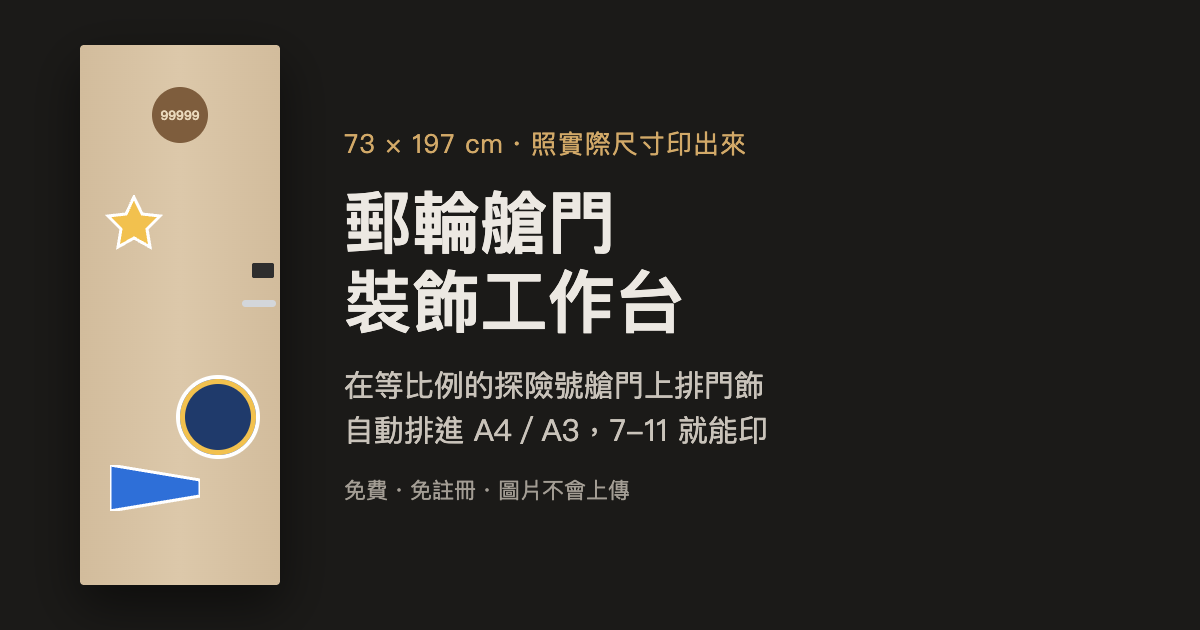
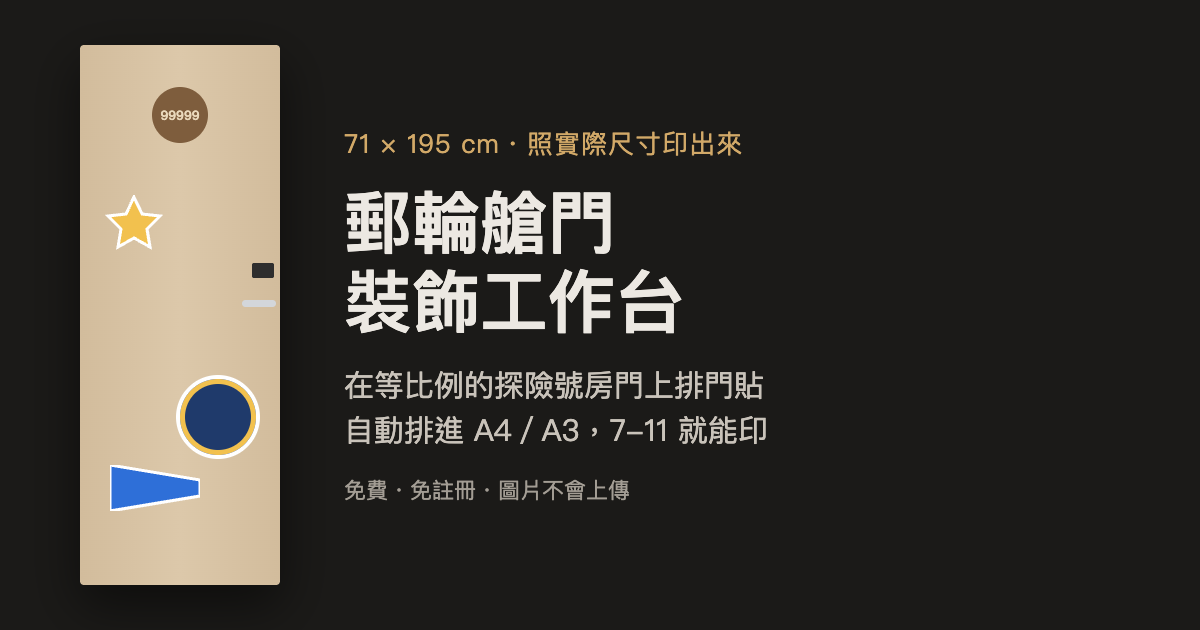
feat(seo): 探險號房門改成官方尺寸 71 × 195 cm，SEO 文案改用大家實際搜尋的詞
- 門：迪士尼在 planDisney 回答的一般艙房房門約 71 × 195 cm、門牌上緣距門頂約 15.5 cm。
  原本的 73 × 197 cm 比較接近禮賓艙房，大多數人住的是一般艙房，所以改用官方數字。
  門牌、貓眼置中跟著移，門鎖區貼齊右緣。說明加上「約略尺寸，出發前建議自己量一次」
- 標題與描述以「房門尺寸」「房門裝飾」開頭：Google 自動完成裡最多的是「門的尺寸」，
  大家說「房門」「門貼」「磁鐵製作」，很少說「艙門」「門飾」
- 指南加上房門裝飾的規定（只能用磁鐵、不能用門上方掛鉤等）、禮賓艙房的尺寸、一句英文
- 拿掉 FAQPage 結構化資料與 meta keywords：Google 已不顯示 FAQ 搜尋結果、也不讀 keywords
- 分享預覽圖的尺寸改成 71 × 195 cm

Changed region(s): [[0.2775, 0.2111, 0.6167, 0.2714], [0.4625, 0.573, 0.5242, 0.6333], [0.6167, 0.573, 0.6475, 0.6333]]

diff --git a/index.html b/index.html
@@ -3,9 +3,8 @@
   <head>
     <meta charset="UTF-8" />
     <meta name="viewport" content="width=device-width, initial-scale=1.0, viewport-fit=cover" />
-    <title>郵輪艙門裝飾工作台｜探險號艙門尺寸、門飾排版與實際尺寸列印</title>
-    <meta name="description" content="迪士尼郵輪探險號艙門裝飾工具：在 73 × 197 cm 等比例的艙門上排貼紙、去背、避開門牌和門把，再照實際尺寸排進 A4／A3 輸出 PDF，7-11 ibon 就能印。免費、免註冊，圖片不會上傳。" />
-    <meta name="keywords" content="探險號艙門, 探險號艙門尺寸, 迪士尼郵輪 艙門裝飾, 迪士尼探險號, 郵輪門飾, 艙門磁鐵, 郵輪房門裝飾, Disney Adventure door decorations, cruise door magnets" />
+    <title>迪士尼郵輪房門尺寸與房門裝飾排版｜探險號門貼、磁鐵 DIY</title>
+    <meta name="description" content="迪士尼郵輪探險號的房門約 71 × 195 公分。在等比例的房門上排門貼、避開門牌和門把，照實際尺寸排進 A4／A3 印出來，做成磁鐵貼在門上，7-11 ibon 就能印。免費、免註冊，圖片不會上傳。" />
     <link rel="canonical" href="https://hihiyuru.github.io/cruise-door-studio/" />
     <meta name="theme-color" content="#6E4F31" />
 
@@ -17,57 +16,28 @@
     <meta property="og:type" content="website" />
     <meta property="og:locale" content="zh_TW" />
     <meta property="og:site_name" content="郵輪艙門裝飾工作台" />
-    <meta property="og:title" content="郵輪艙門裝飾工作台｜探險號艙門尺寸、門飾排版與列印" />
-    <meta property="og:description" content="在等比例的探險號艙門（73 × 197 cm）上排門飾，照實際尺寸印出來。免費、免註冊。" />
+    <meta property="og:title" content="迪士尼郵輪房門尺寸與房門裝飾排版｜探險號門貼、磁鐵 DIY" />
+    <meta property="og:description" content="探險號房門約 71 × 195 公分。在等比例的房門上排好門貼，照實際尺寸印出來做成磁鐵。免費、免註冊。" />
     <meta property="og:url" content="https://hihiyuru.github.io/cruise-door-studio/" />
     <meta property="og:image" content="https://hihiyuru.github.io/cruise-door-studio/og-image.png" />
     <meta property="og:image:width" content="1200" />
     <meta property="og:image:height" content="630" />
-    <meta property="og:image:alt" content="等比例的郵輪艙門上貼著門飾，旁邊標示 73 × 197 cm" />
+    <meta property="og:image:alt" content="等比例的郵輪房門上貼著門貼，旁邊標示 71 × 195 cm" />
     <meta name="twitter:card" content="summary_large_image" />
 
-    <!-- tells search engines this is a free web tool, and feeds the FAQ below into results -->
+    <!-- tells search engines this is a free web tool -->
     <script type="application/ld+json">
       {
         "@context": "https://schema.org",
-        "@graph": [
-          {
-            "@type": "WebApplication",
-            "name": "郵輪艙門裝飾工作台",
-            "alternateName": "Cruise Door Studio",
-            "url": "https://hihiyuru.github.io/cruise-door-studio/",
-            "applicationCategory": "DesignApplication",
-            "operatingSystem": "Any",
-            "inLanguage": "zh-Hant-TW",
-            "offers": { "@type": "Offer", "price": "0", "priceCurrency": "TWD" },
-            "description": "在等比例的迪士尼郵輪探險號艙門上排貼紙、去背，照實際尺寸輸出 A4／A3 PDF。"
-          },
-          {
-            "@type": "FAQPage",
-            "mainEntity": [
-              {
-                "@type": "Question",
-                "name": "迪士尼郵輪探險號的艙門有多大？",
-                "acceptedAnswer": { "@type": "Answer", "text": "約 73 公分寬、197 公分高。門牌直徑 20.5 公分，上緣距門頂 15.7 公分；貓眼在門牌下方 20 公分；門鎖區距門頂 79 公分、高約 28 公分。" }
-              },
-              {
-                "@type": "Question",
-                "name": "艙門裝飾可以用膠帶嗎？",
-                "acceptedAnswer": { "@type": "Answer", "text": "不行。艙門是金屬門，只能用磁鐵固定，可以印在磁性相紙上，或印好後在背面貼軟磁鐵片。" }
-              },
-              {
-                "@type": "Question",
-                "name": "在 7-11 ibon 印出來的尺寸會變小嗎？",
-                "acceptedAnswer": { "@type": "Answer", "text": "ibon 會把頁面縮到可列印範圍。這個工具的 ibon 紙張直接做成可列印範圍（A3 28.9 × 40.5 公分），印出來就是實際大小。每張底部有 5 公分比例尺可以確認。" }
-              },
-              {
-                "@type": "Question",
-                "name": "上傳的圖片會被傳到網路上嗎？",
-                "acceptedAnswer": { "@type": "Answer", "text": "不會。圖片和排版只存在自己電腦的瀏覽器裡，換電腦可以用「下載備份」帶著走。" }
-              }
-            ]
-          }
-        ]
+        "@type": "WebApplication",
+        "name": "郵輪艙門裝飾工作台",
+        "alternateName": "Cruise Door Studio",
+        "url": "https://hihiyuru.github.io/cruise-door-studio/",
+        "applicationCategory": "DesignApplication",
+        "operatingSystem": "Any",
+        "inLanguage": "zh-Hant-TW",
+        "offers": { "@type": "Offer", "price": "0", "priceCurrency": "TWD" },
+        "description": "在等比例的迪士尼郵輪探險號房門（約 71 × 195 公分）上排門貼，照實際尺寸輸出 A4／A3 PDF，做成磁鐵貼在門上。"
       }
     </script>
   </head>
@@ -81,34 +51,49 @@
     >
       <div class="max-w-[68ch] border-t border-line pt-8">
         <h2 class="mb-2 text-[18px] font-bold text-fg">
-          迪士尼郵輪探險號艙門裝飾指南
+          迪士尼郵輪探險號房門尺寸與裝飾指南
         </h2>
         <p>
-          郵輪的艙門裝飾（door decorations）是很多人上船前會準備的小驚喜。這個免費工具把探險號艙門照比例畫出來，可以先在畫面上排好門飾，再照實際尺寸印出來，不怕做太大或擋到門把。
+          房門裝飾（門口佈置）是迪士尼郵輪的傳統，很多人上船前會先做好門貼和磁鐵。這個免費工具把探險號的房門照比例畫出來，可以先在畫面上排好，再照實際尺寸印出來，不怕做太大或擋到門把。
         </p>
 
         <h3 class="mt-6 mb-1 text-[15px] font-semibold text-fg">
-          探險號艙門尺寸
+          探險號房門尺寸
         </h3>
         <ul class="list-disc pl-5">
-          <li>整扇門約 73 公分寬、197 公分高。</li>
-          <li>門牌是直徑 20.5 公分的圓形，上緣距門頂 15.7 公分。</li>
+          <li>一般艙房的房門約 71 公分寬、195 公分高。</li>
+          <li>門牌是直徑 20.5 公分的圓形，上緣距門頂約 15.5 公分。</li>
           <li>貓眼在門牌下方約 20 公分。</li>
-          <li>門鎖和門把在右側，距門頂約 79 公分，整區高約 28 公分；下緣距地面約 90 公分。</li>
+          <li>門鎖和門把在右側，距門頂約 79 公分，整區高約 28 公分。</li>
+          <li>禮賓艙房（Concierge）的門稍大，約 73.5 公分寬、197 公分高，可以選「自訂尺寸」輸入。</li>
         </ul>
-
-        <h3 class="mt-6 mb-1 text-[15px] font-semibold text-fg">
-          哪裡不能貼
-        </h3>
-        <p>
-          門牌、貓眼、門鎖和門把附近都要空出來，擋住門牌會找不到房間，貼在門把旁邊開關門時容易刮掉。工具會把這些區域標成紅色，貼紙蓋到時會提醒。
+        <p class="mt-2">
+          門的寬高和門牌依迪士尼郵輪在 planDisney 上回答的約略尺寸；貓眼和門鎖的位置官方沒有公布，是依實測圖畫的。每艘船、每間房可能差一點，出發前建議自己量一次。
+        </p>
+        <p class="mt-2" lang="en">
+          Disney Adventure stateroom door size: about 71 × 195 cm (28 × 77 in). Plan your door magnets at real size and print them on A4 or A3.
         </p>
 
         <h3 class="mt-6 mb-1 text-[15px] font-semibold text-fg">
-          要用磁鐵，不能用膠帶
+          房門裝飾的規定
+        </h3>
+        <ul class="list-disc pl-5">
+          <li>只能用磁鐵固定，不能用膠帶、膠水或無痕掛鉤。</li>
+          <li>只能貼在自己的房門上，走廊牆面和天花板不行。</li>
+          <li>不能用掛在門上方的掛鉤或掛架，會刮傷門的烤漆。</li>
+          <li>門牌、貓眼和門鎖感應區要空出來。</li>
+          <li>下船前要把裝飾拿下來。</li>
+          <li>建議用背面光滑的磁鐵，比較不會刮傷門。</li>
+        </ul>
+        <p class="mt-2">
+          工具會把門牌、貓眼和門鎖附近標成紅色，貼紙蓋到時會提醒。
+        </p>
+
+        <h3 class="mt-6 mb-1 text-[15px] font-semibold text-fg">
+          磁鐵製作
         </h3>
         <p>
-          艙門是金屬門，裝飾只能用磁鐵固定。可以直接印在磁性相紙上，或印在一般紙上、背面貼軟磁鐵片。大張的圖建議護貝後再貼磁鐵，比較挺也不怕潮濕。
+          可以直接印在磁性相紙上，或印在一般紙上、背面貼軟磁鐵片。大張的圖建議護貝後再貼磁鐵，比較挺也不怕潮濕。門框也有磁性，可以一起佈置。
         </p>
 
         <h3 class="mt-6 mb-1 text-[15px] font-semibold text-fg">
@@ -138,7 +123,7 @@
             工具會依照圖片大小提醒「圖太小，印出來會糊」。SVG 向量圖印多大都清楚。
           </dd>
           <dt class="mt-3 font-medium text-fg">
-            其他船的艙門也能用嗎？
+            其他船的房門也能用嗎？
           </dt>
           <dd>
             門款可以選「自訂尺寸」，輸入自己量到的寬高就能用，只是不會畫出門牌和門鎖。

diff --git a/src/render/doorSvg.ts b/src/render/doorSvg.ts
@@ -25,13 +25,13 @@ export function doorSvg(door: DoorModel, opts: { keepOut: boolean; grid: boolean
     }
   }
   if (door.fixtures) {
-    s += `<circle cx="365" cy="259.5" r="102.5" fill="#7E5D3D"/><circle cx="365" cy="259.5" r="92" fill="none" stroke="#B89466" stroke-width="3"/>
-    <text x="365" y="276" font-size="46" font-weight="700" text-anchor="middle" fill="#EAD9BC" font-family="Helvetica, Arial, sans-serif">${esc(opts.roomNo.slice(0, 6))}</text>
-    <circle cx="365" cy="562" r="10" fill="#C4C7CC" stroke="#555" stroke-width="3"/><circle cx="365" cy="562" r="4" fill="#333"/>
-    <rect x="618" y="790" width="84" height="55" rx="7" fill="#2E2E2E"/><rect x="630" y="802" width="22" height="8" rx="2" fill="#555"/>
-    <circle cx="670" cy="959" r="30" fill="#C4C7CC" stroke="#8A8F96" stroke-width="2"/>
-    <rect x="566" y="946" width="122" height="26" rx="13" fill="#D3D6DA" stroke="#8A8F96" stroke-width="2"/>
-    <circle cx="650" cy="1058" r="18" fill="#C4C7CC" stroke="#8A8F96" stroke-width="2"/>`
+    s += `<circle cx="355" cy="257.5" r="102.5" fill="#7E5D3D"/><circle cx="355" cy="257.5" r="92" fill="none" stroke="#B89466" stroke-width="3"/>
+    <text x="355" y="274" font-size="46" font-weight="700" text-anchor="middle" fill="#EAD9BC" font-family="Helvetica, Arial, sans-serif">${esc(opts.roomNo.slice(0, 6))}</text>
+    <circle cx="355" cy="560" r="10" fill="#C4C7CC" stroke="#555" stroke-width="3"/><circle cx="355" cy="560" r="4" fill="#333"/>
+    <rect x="598" y="790" width="84" height="55" rx="7" fill="#2E2E2E"/><rect x="610" y="802" width="22" height="8" rx="2" fill="#555"/>
+    <circle cx="650" cy="959" r="30" fill="#C4C7CC" stroke="#8A8F96" stroke-width="2"/>
+    <rect x="546" y="946" width="122" height="26" rx="13" fill="#D3D6DA" stroke="#8A8F96" stroke-width="2"/>
+    <circle cx="630" cy="1058" r="18" fill="#C4C7CC" stroke="#8A8F96" stroke-width="2"/>`
   }
   return s
 }

diff --git a/src/domain/doors.ts b/src/domain/doors.ts
@@ -13,21 +13,22 @@ export interface DoorModel {
 }
 
 /**
- * Measurements of a Disney Adventure stateroom door, from a published diagram:
- * 73 × 197 cm, number plate Ø20.5 cm with its top 15.7 cm below the door top,
- * peephole 20 cm below the plate, lock area starting 79 cm from the top and 28 cm tall.
+ * Disney Adventure stateroom door. Size and number plate follow the approximate figures Disney Cruise Line
+ * gives on planDisney: 71 × 195 cm, plate Ø20.5 cm with its top about 15.5 cm below the door top.
+ * Disney publishes no positions for the peephole and lock, so those come from a measured diagram:
+ * peephole 20 cm below the plate, lock area starting 79 cm from the top and 28 cm tall, against the right edge.
  */
 export const ADVENTURE: DoorModel = {
   id: 'disney-adventure',
   name: '迪士尼郵輪・探險號（Disney Adventure）',
-  w: 730,
-  h: 1970,
-  note: '門牌直徑 20.5 cm、門牌上緣距門頂 15.7 cm、貓眼在門牌下 20 cm、門鎖區距門頂 79 cm。',
+  w: 710,
+  h: 1950,
+  note: '約略尺寸，出發前建議自己量一次。門牌直徑 20.5 cm、門牌上緣距門頂約 15.5 cm、貓眼在門牌下 20 cm、門鎖區距門頂 79 cm。',
   fixtures: true,
   keepOut: [
-    { name: '門牌', type: 'circle', cx: 365, cy: 259.5, r: 108 },
-    { name: '貓眼', type: 'circle', cx: 365, cy: 562, r: 22 },
-    { name: '門鎖和門把', type: 'rect', x: 545, y: 775, w: 185, h: 310 },
+    { name: '門牌', type: 'circle', cx: 355, cy: 257.5, r: 108 },
+    { name: '貓眼', type: 'circle', cx: 355, cy: 560, r: 22 },
+    { name: '門鎖和門把', type: 'rect', x: 525, y: 775, w: 185, h: 310 },
   ],
 }
 

diff --git a/src/domain/packing.test.ts b/src/domain/packing.test.ts
@@ -146,7 +146,7 @@ describe('widthToFit', () => {
 
 describe('hits', () => {
   it('flags stickers over the number plate and the lock', () => {
-    expect(hits(st('a', 100, 1, { x: 365, y: 260 }), ADVENTURE.keepOut, ADVENTURE)).toContain('門牌')
+    expect(hits(st('a', 100, 1, { x: 355, y: 258 }), ADVENTURE.keepOut, ADVENTURE)).toContain('門牌')
     expect(hits(st('b', 100, 1, { x: 620, y: 950 }), ADVENTURE.keepOut, ADVENTURE)).toContain('門鎖和門把')
     expect(hits(st('c', 100, 1, { x: 200, y: 1500 }), ADVENTURE.keepOut, ADVENTURE)).toEqual([])
     expect(hits(st('d', 100, 1, { x: 10, y: 1500 }), ADVENTURE.keepOut, ADVENTURE)).toEqual(['門外'])

diff --git a/src/render/samples.ts b/src/render/samples.ts
@@ -40,7 +40,7 @@ export function sampleArt(): { name: string; art: Canvas; w: number; x: number; 
   f.beginPath(); f.moveTo(0, 150); f.quadraticCurveTo(350, 110, 700, 175); f.lineTo(700, 195); f.quadraticCurveTo(350, 140, 0, 200); f.fill()
 
   return [
-    { name: '範例：圓章', art: badge, w: 120, x: 365, y: 1350, rot: 0 },
+    { name: '範例：圓章', art: badge, w: 120, x: 355, y: 1350, rot: 0 },
     { name: '範例：星星', art: star, w: 110, x: 170, y: 700, rot: -12 },
     { name: '範例：旗子', art: flag, w: 130, x: 560, y: 140, rot: 8 },
   ]
